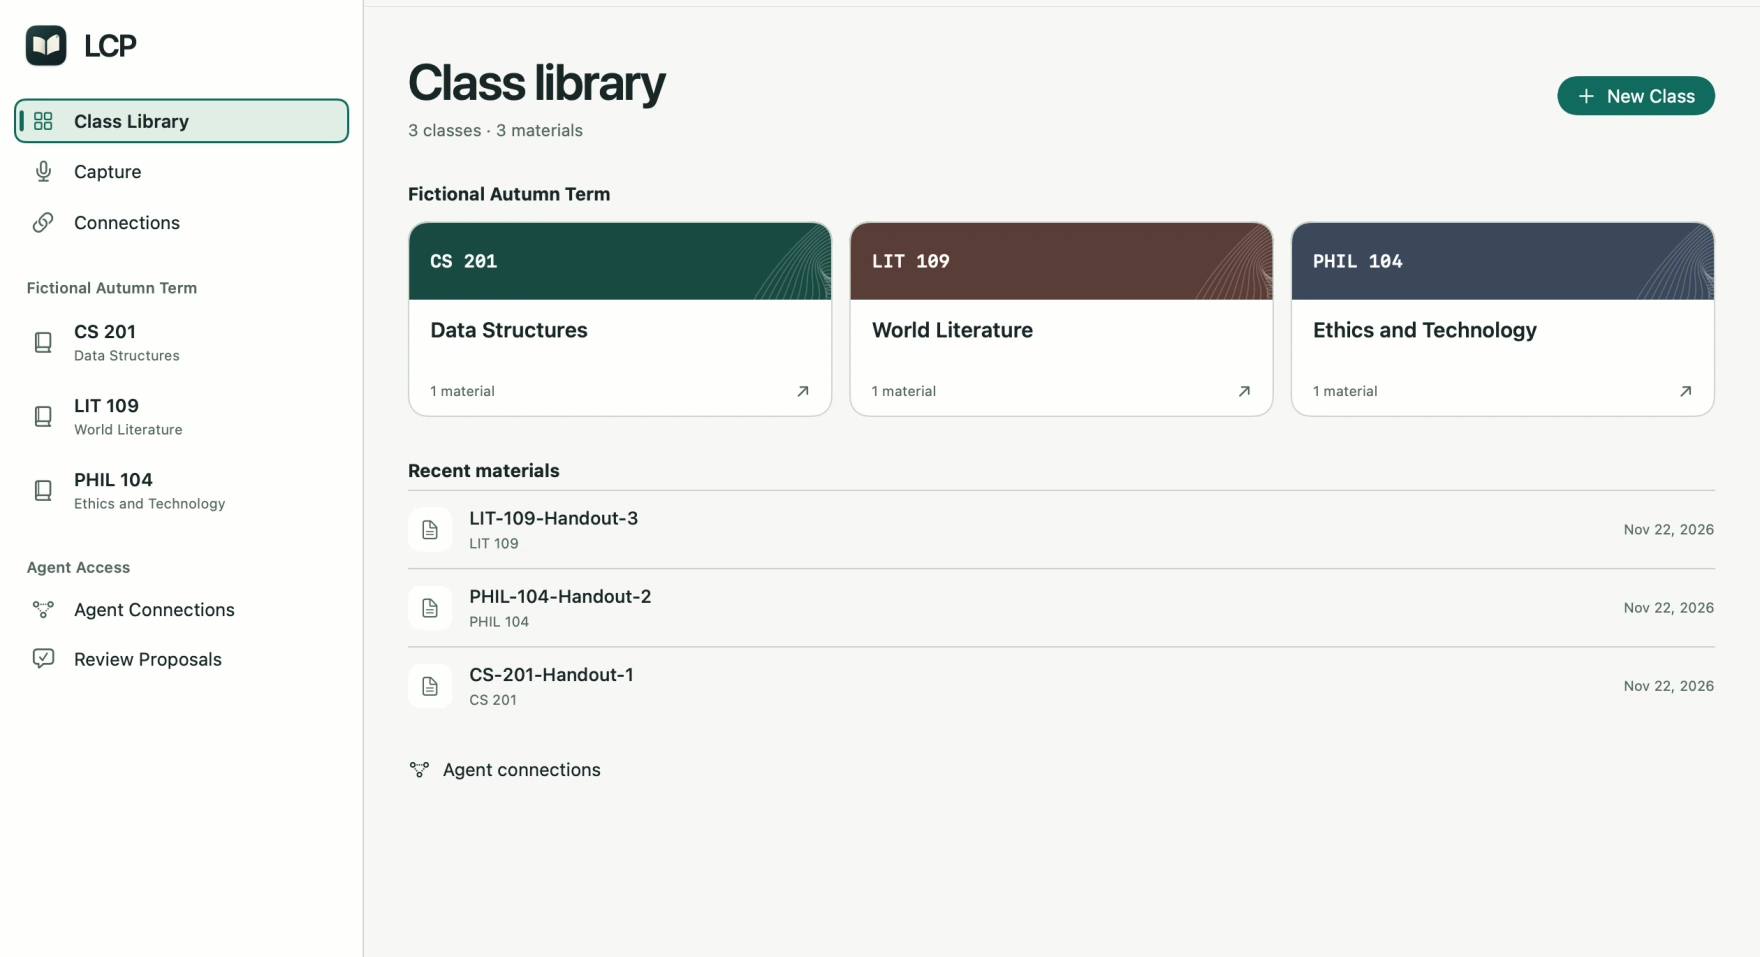
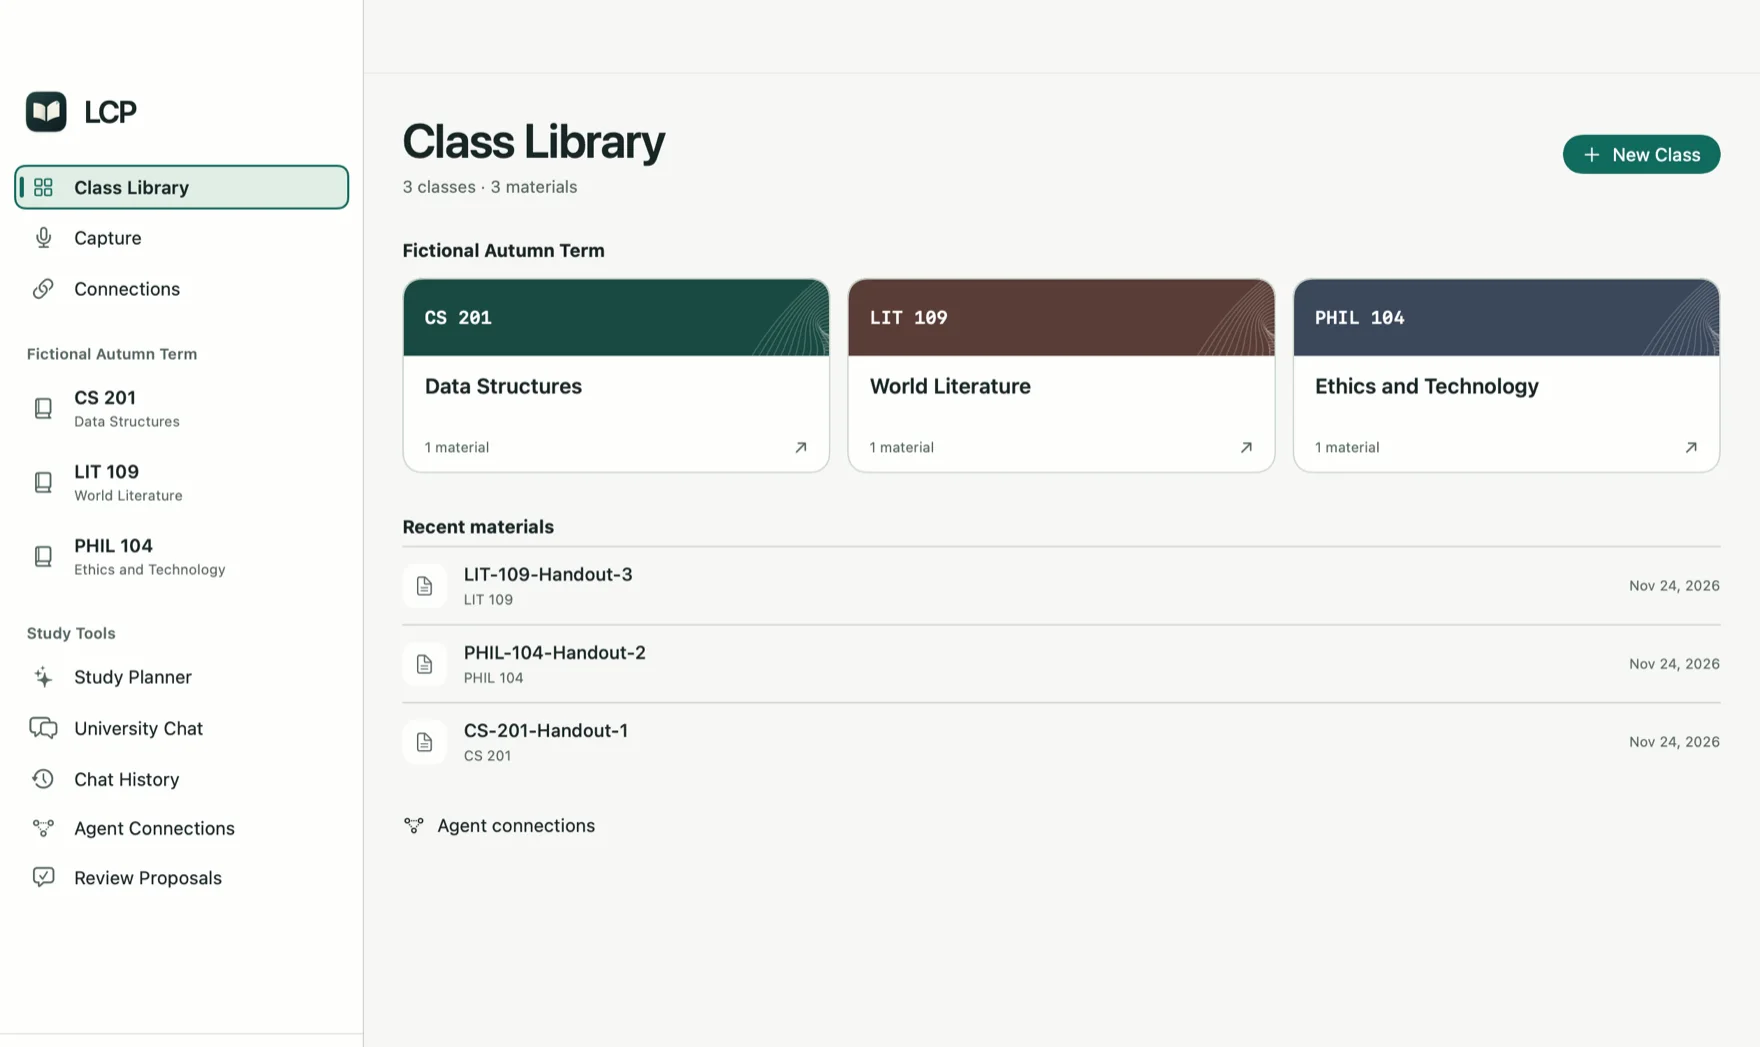
Refresh website product screenshots

diff --git a/website/index.html b/website/index.html
@@ -54,7 +54,7 @@
           <div class="app-window" id="app-window">
             <div class="window-bar" aria-hidden="true"><i></i><i></i><i></i><span>LCP Desktop</span></div>
             <a id="preview-link" class="preview-link" href="assets/class-library.webp" aria-label="Enlarge the class library preview">
-              <img id="preview-image" src="assets/class-library.webp" width="1760" height="957" alt="LCP class library with Data Structures, World Literature, and Ethics and Technology, plus recent course materials." fetchpriority="high">
+              <img id="preview-image" src="assets/class-library.webp" width="1760" height="1047" alt="LCP class library with Data Structures, World Literature, and Ethics and Technology, plus recent course materials." fetchpriority="high">
             </a>
           </div>
           <a class="expand" id="expand" href="assets/class-library.webp" aria-label="Enlarge preview"><span aria-hidden="true">⤢</span></a>
@@ -118,7 +118,7 @@
 
   <dialog id="lightbox" aria-labelledby="lightbox-title">
     <div class="dialog-bar"><h2 id="lightbox-title">Class library</h2><form method="dialog"><button type="submit" autofocus aria-label="Close preview">Close <span aria-hidden="true">×</span></button></form></div>
-    <img id="large-preview" alt="" width="1760" height="957">
+    <img id="large-preview" alt="" width="1760" height="1047">
   </dialog>
 </body>
 </html>
